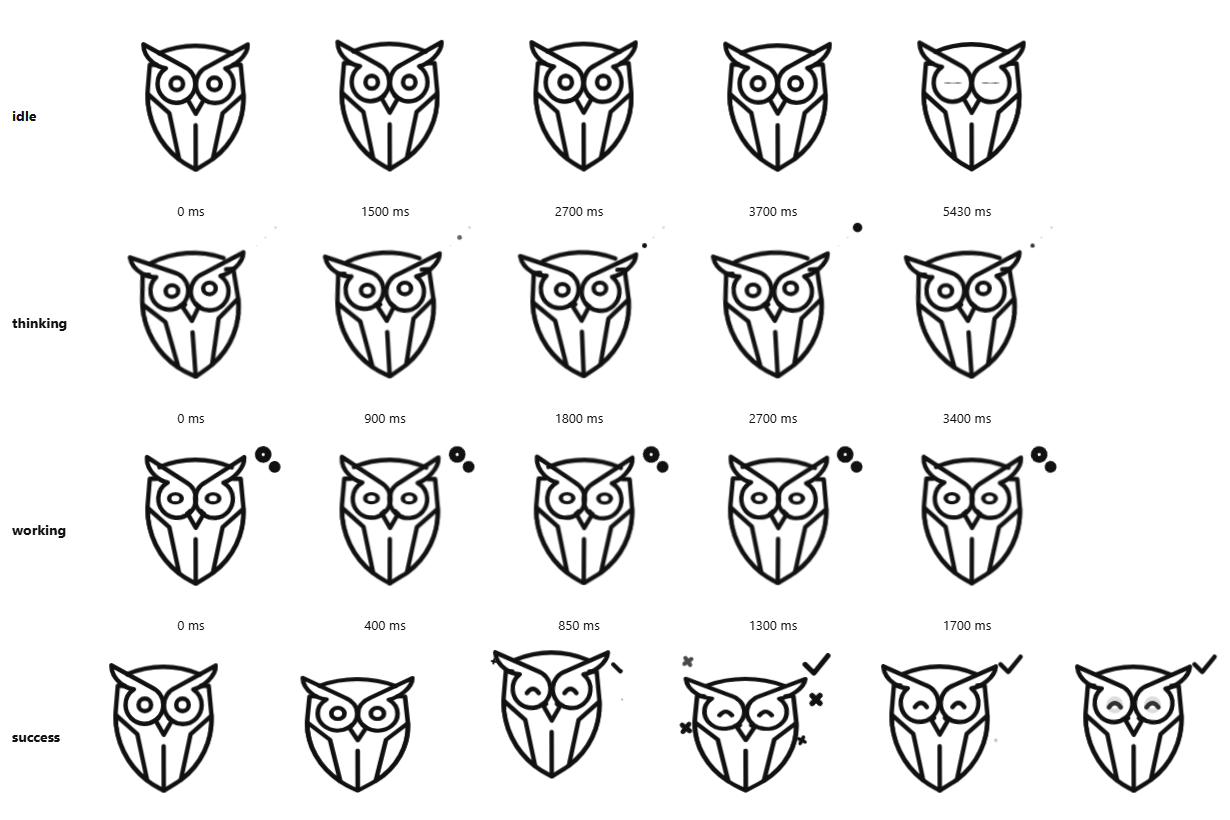
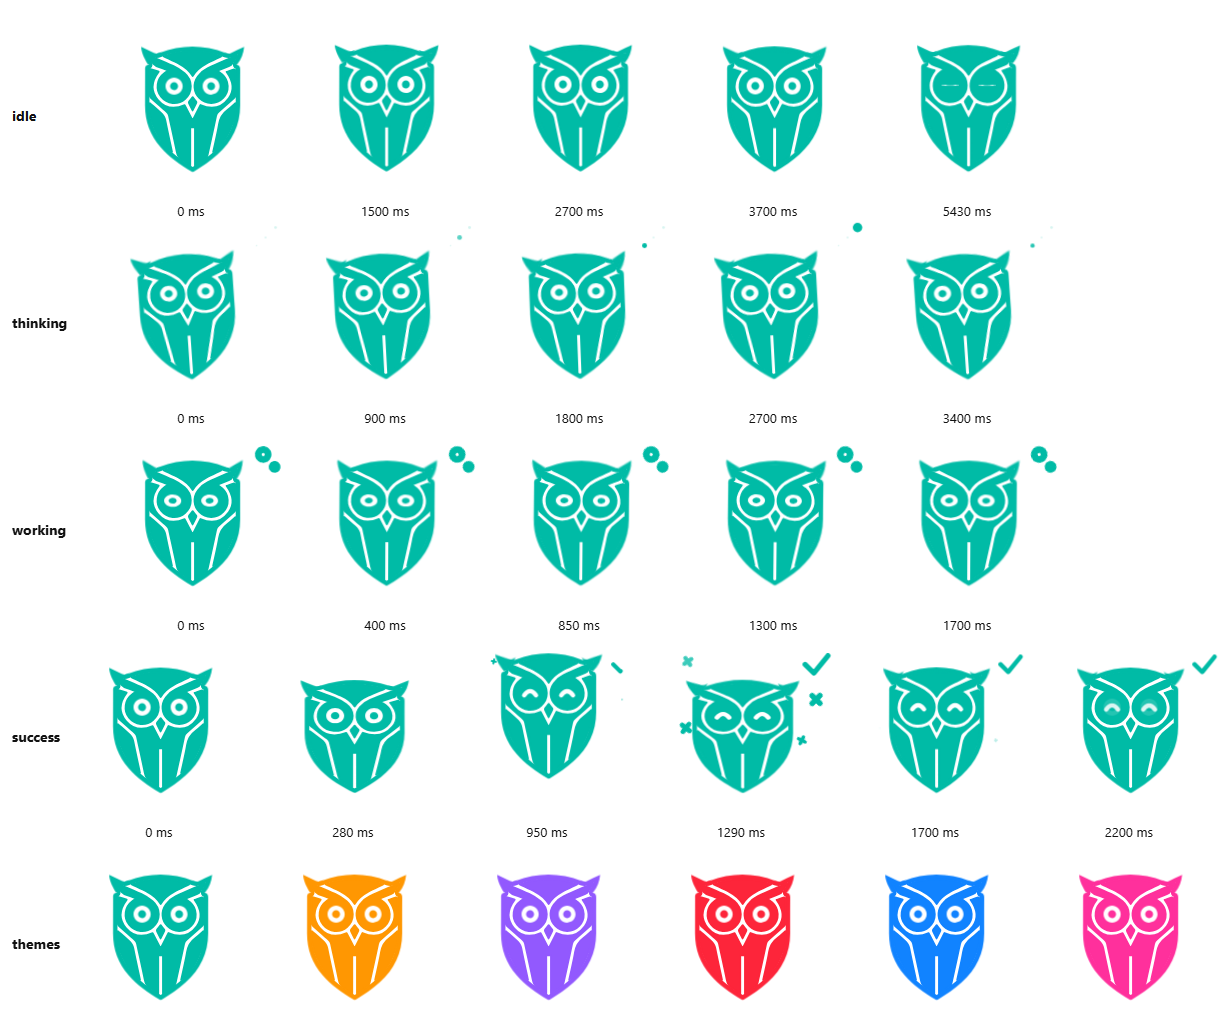
docs(pet): document colour themes, silhouette guarantee and rig source

diff --git a/pet/animated/README.md b/pet/animated/README.md
@@ -1,7 +1,9 @@
 # Animated owl mascot
 
-A framework-free animation rig for the owl in [`../behav.svg`](../behav.svg), with four states:
-`idle`, `thinking`, `working` and `success`.
+A framework-free animation rig for the owl in [`../behav.svg`](../behav.svg), with four states
+(`idle`, `thinking`, `working`, `success`) and six colour themes. The owl keeps the exact outline of the
+original artwork; only the colouring changes (flat body colour, white lines and eyes, like the reference
+bots in `../reference/palette.jpg`).
 
 ![contact sheet](docs/contact-sheet.png)
 
@@ -27,8 +29,9 @@ It is auto-detected; set `BROWSER=<path>` to override. Without one, the browser 
 | Path | Role | Depends on |
 | --- | --- | --- |
 | `../behav.svg` | Original artwork. Never modified. | - |
-| `scripts/build-rig.mjs` | Derives the rig from the original's hidden `Capa_2` layer. | Node |
-| `assets/mascot.svg` | Generated rig: one `data-part="..."` element per body part. | - |
+| `scripts/build-rig.mjs` | Derives the rig from the original's visible layer `Capa_1` (same geometry). | Node |
+| `assets/mascot.svg` | Generated rig: `data-part="..."` elements for every animated piece. | - |
+| `src/mascot.themes.json` | The six body colours sampled from the reference image. | - |
 | `src/mascot.spec.json` | **All animation data**: parts, rest poses, states, keyframes. | - |
 | `src/mascot-engine.js` | Plays the spec on any SVG that has the parts. | Web Animations API |
 | `demo/` | Demo page, contact sheet and the browser self test. | engine |
@@ -49,6 +52,18 @@ Options: `speed` (playback multiplier), `blendMs` (cross-state blend, default 22
 `pause()`, `play()` and `seek(ms)` exist for deterministic tests and screenshots.
 
 `success` is a one-shot: it plays once and returns to `idle` on its own (`"next"` in the spec).
+
+## Colour themes
+
+The colours are CSS variables, so a theme is just a style on the element that contains the SVG:
+
+```js
+stage.style.setProperty('--mascot-body', '#9259FE');  // body colour (see src/mascot.themes.json)
+stage.style.setProperty('--mascot-line', '#fff');     // optional: lines and eyes, white by default
+```
+
+The demo has a swatch picker. Themes: teal `#00BBA6`, orange `#FF9702`, purple `#9259FE`, red `#FD253A`,
+blue `#1183FF`, pink `#FF309C`.
 
 ## Spec format
 
@@ -72,10 +87,14 @@ To tweak motion, edit the JSON and run `npm run sheet` to see the result.
 ## Known limits
 
 - Tested only in Chromium/Edge. Firefox and Safari are not tested.
-- The rig is built from `Capa_2`, the original's hidden stroke layer, because the visible layer is a
-  single merged path that cannot be split without breaking its cut-outs. The two layers are close but
-  not identical (the eye ring radius is set to 66 to match the visible layer): near-identical, not
-  pixel-identical.
+- The outline is the original's, pixel for pixel (a test compares the idle silhouette with `behav.svg`,
+  IoU >= 0.998). The white lines are the original lines slimmed by 18 units (`THIN` in `build-rig.mjs`),
+  and the original outer band is body-coloured so the silhouette does not shrink.
+- The visible artwork is one merged path, so only these pieces move on their own: the two eye rings,
+  the two ear tufts (rotating at their base) and the whole body. The beak, cheeks and lines are static;
+  the lines are drawn through an SVG `mask`, which a Kotlin port has to replicate.
+- The ear tufts are cut from the outline with hand-placed polygons (`TUFT_CORE`/`TUFT_PIECE`); keep their
+  rotations small (about 10 degrees or less) or the cut edge at the base becomes visible.
 - One track per part per state: independent x/y timing on the same part needs a nested group.
 - In headless Chromium with `--virtual-time-budget`, transform animations never start and
   `Animation.finished` never resolves (no frames are produced); the test runner therefore drives the

diff --git a/pet/animated/docs/EVALUATION.md b/pet/animated/docs/EVALUATION.md
@@ -15,11 +15,16 @@ and the repo skills (`install-skill`, `research`, `research-routing`, `web-searc
 ## What the SVG allows
 
 `behav.svg` is an Illustrator export, 2000x2000. The visible layer `Capa_1` is one merged compound
-path (frame, sockets, cheeks and beak are cut-outs of the same path) plus two eye rings. The hidden
-layer `Capa_2` holds the same drawing as separate stroked parts: two brow pieces (tuft + socket),
-beak, two eyes, body outline, forehead arc, two cheeks and spine. That layer is what gets rigged:
-eyes (gaze, blink), brows (raise/furrow), beak, the whole body (breathing, squash and stretch, tilt)
-and overlays (thought dots, gears, check mark, sparks).
+path (the first subpath is the outer outline, the other seven are the white regions: sockets, forehead,
+cheeks, chest, beak) plus two eye rings. The hidden layer `Capa_2` holds a stroked drawing split into
+parts, but it is an earlier, misaligned draft: measured against the visible layer its silhouette has
+IoU 0.894 (the right side bulges about 30 units and the eyes sit about 25 units higher). The first
+prototype rigged `Capa_2`; once the owl was coloured in, that deviation was not acceptable, so the rig is
+now built from `Capa_1` (IoU 1.000 against the original).
+
+From `Capa_1` the animatable pieces are: the two eye rings (gaze, blink, happy swap), the ear tufts
+(cut from the outline and rotated at their base), the whole body (breathing, squash and stretch,
+tilt) and overlays (thought dots, gears, check mark, sparks). The beak, cheeks and lines stay static.
 
 ## Options compared
 
@@ -46,10 +51,11 @@ part names in the spec map directly to Rive objects.
 
 ## What was and was not verified
 
-- Verified here: the rig renders like the original (visual comparison), all four states animate
-  (contact sheet), and the engine passes 7 tests (spec contract, rig freshness, and 16 real-browser
-  checks including real-time auto-return, events and reduced motion). The browser test fails when
-  auto-return is deliberately broken (mutation check).
+- Verified here: the idle silhouette equals the original outline (flood-filled pixel comparison, run as a
+  test; it fails when the ear cut-outs are deliberately broken), all four states animate (contact sheet),
+  the six themes recolour the same shape, and the engine passes 7 tests (spec contract, rig freshness and
+  19 real-browser checks including real-time auto-return, events, reduced motion, themes and the
+  silhouette). The browser test also fails when auto-return is deliberately broken (mutation check).
 - Not verified: Rive and Lottie were assessed from their documentation and package listings, not by
   building the mascot in them. Rive's MCP was not installed or run. Firefox, Safari and real devices
   were not tested.
